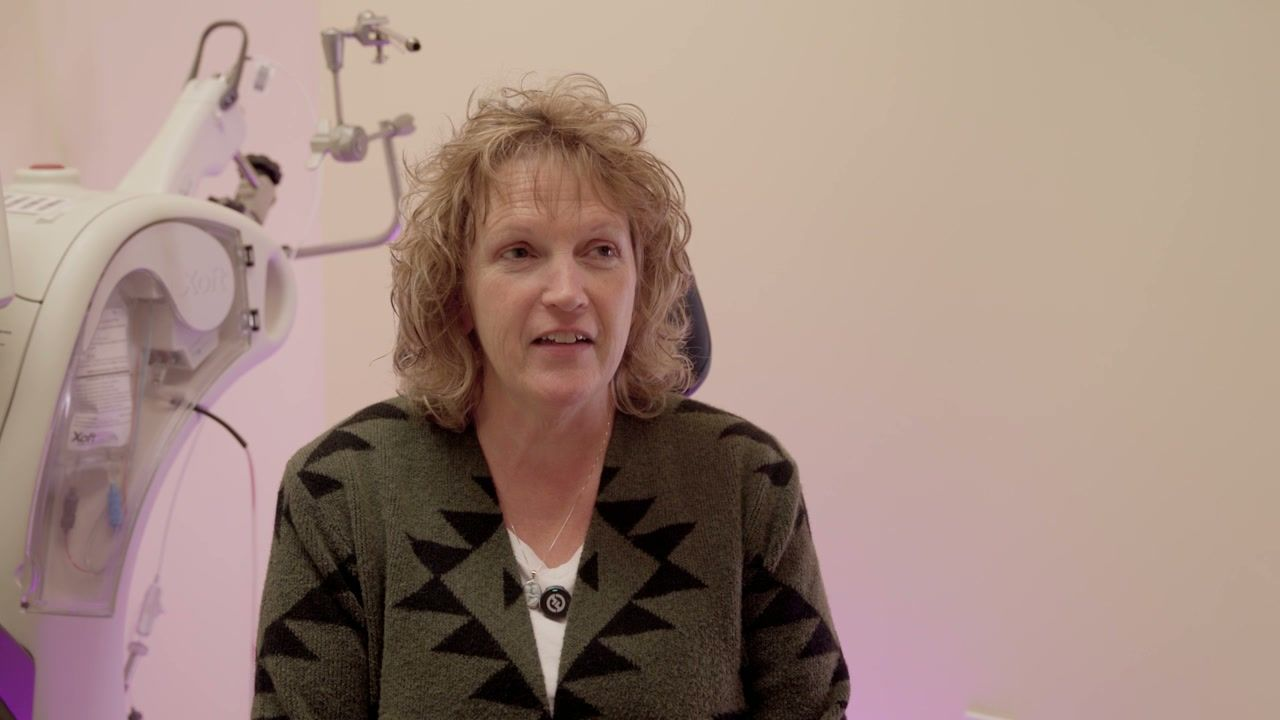
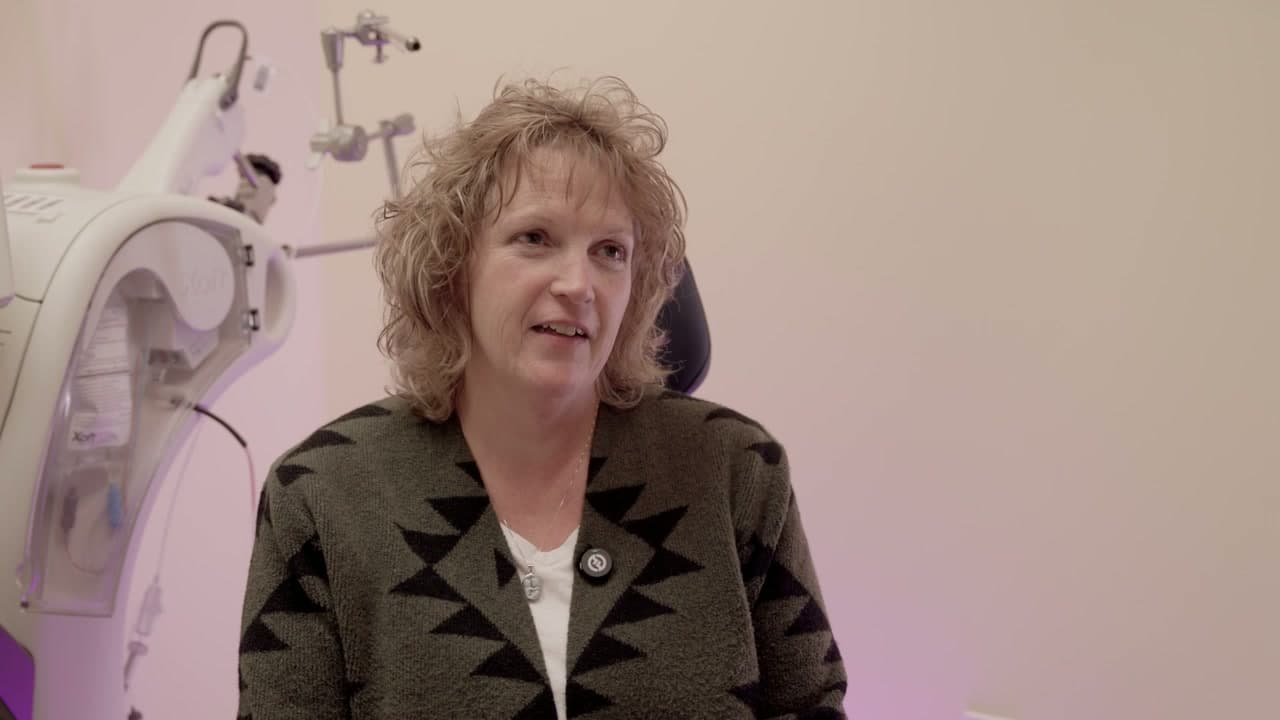
Added feature: video with video preview

Changed region(s): [[0.1875, 0.0917, 0.6875, 1.0]]

diff --git a/src/electronic-brachytherapy.html b/src/electronic-brachytherapy.html
@@ -38,14 +38,22 @@
                             <p>
                                 Electronic Brachytherapy (eBx) is a cutting-edge cancer treatment that merges the advantages of external beam radiation therapy and conventional brachytherapy to effectively target skin cancer while minimizing harm to surrounding healthy tissue. This approach allows patients to achieve comparable treatment results without the extended recovery periods or side effects associated with Mohs surgery.
                             </p>
-                            <figure>
-                                <picture>
-                                    <source srcset="img/face-with-focus-700x618.avif" type="image/avif">
-                                    <source srcset="img/face-with-focus-700x618.webp" type="image/webp">
-                                    <img src="img/face-with-focus-700x618.jpg" alt="Facial zones | Meridian park">
-                                </picture>
-                                <figcaption>eBx can successfully treat any accessible area on the body, even around the nose</figcaption>
-                            </figure>
+
+                            <div class="video80-wrapper">
+                                <video class="video80-item__video" controls playsinline preload="none">
+                                    <source src="img/videos/promo1.mp4" type="video/mp4">
+                                </video>
+                                <video class="video80-item__preview" autoplay loop muted playsinline>
+                                    <source src="img/patient-stories-hero--slow2.mp4" type="video/mp4">
+                                    <p>
+                                        Your browser does not support the video tag
+                                    </p>
+                                </video>
+                                <div class="video80-item__playbutton">
+                                    <svg xmlns="http://www.w3.org/2000/svg" width="24" height="24" viewBox="0 0 24 24"><path d="M3 22v-20l18 10-18 10z"/></svg>
+                                </div>
+                            </div>
+
                             <div class="inner-list__box">
                                 <div class="inner-list-box__item">
                                     <div class="inner-list-box-item__side">
@@ -112,6 +120,15 @@
                                     </div>
                                 </div>
                             </div>
+
+                            <figure>
+                                <picture>
+                                    <source srcset="img/face-with-focus-700x618.avif" type="image/avif">
+                                    <source srcset="img/face-with-focus-700x618.webp" type="image/webp">
+                                    <img src="img/face-with-focus-700x618.jpg" alt="Facial zones | Meridian park">
+                                </picture>
+                                <figcaption>eBx can successfully treat any accessible area on the body, even around the nose</figcaption>
+                            </figure>
 
                         </div>
                     </div>

diff --git a/src/css/modules/video80-with-videopreview.css b/src/css/modules/video80-with-videopreview.css
@@ -1,0 +1,44 @@
+.video80-wrapper {
+    width: 80%;
+    height: auto;
+    margin: calc(4 * var(--size-base)) auto;
+    position: relative;
+}
+
+.video80-item__video {
+    width: 100%;
+    aspect-ratio: 940/544;
+    display: none;
+}
+
+.video80-item__preview {
+    width: 100%;
+    aspect-ratio: 940/544;
+    display: block;
+}
+
+.video80-item__playbutton {
+    position: absolute;
+    top: 50%;
+    left: 50%;
+    translate: -50% -50%;
+
+    width: 48px;
+    height: 48px;
+    border-radius: 50%;
+    background-color: #000a;
+    display: grid;
+    place-content: center;
+}
+
+.video80-item__playbutton svg {
+    width: 24px;
+    height: 24px;
+    border-radius: 50%;
+    fill: white;
+    translate: 10% 0;
+}
+
+.video80-wrapper:hover .video80-item__playbutton {
+    background-color: #0006;
+}

diff --git a/src/js/app.js b/src/js/app.js
@@ -141,3 +141,20 @@ function goToVisit() {
 function goToContact() {
     window.location.href = './contact.html';
 }
+
+
+
+
+
+/* video with video preview */
+const video80Wrapper = document.querySelector(".video80-wrapper");
+const video80Preview = document.querySelector(".video80-item__preview");
+const video80video = document.querySelector(".video80-item__video");
+const video80button = document.querySelector(".video80-item__playbutton");
+
+video80Wrapper.addEventListener('click', () => {
+    video80Preview.style.display = "none";
+    video80button.style.display = "none";
+    video80video.style.display = "block";
+    video80video.play();
+});

diff --git a/src/css/content.css b/src/css/content.css
@@ -199,8 +199,9 @@
 .page--inner .content .container figure {
     max-width: 500px;
     width: 100%;
-    margin: 60px auto 80px auto;
-    margin: calc(3 * var(--size-base, 20px)) auto calc(4 * var(--size-base, 20px)) auto;
+    margin: 0 auto;
+    /* margin: 60px auto 80px auto;
+    margin: calc(3 * var(--size-base, 20px)) auto calc(4 * var(--size-base, 20px)) auto; */
 
     background-color: #deedf0;
     background-color: var(--color-bg-softcyan, #deedf0);

diff --git a/src/css/style.css b/src/css/style.css
@@ -15,3 +15,4 @@
 @import url("modules/versus-box.css");
 @import url("modules/partners-bar.css");
 @import url("modules/visit.css");
+@import url("modules/video80-with-videopreview.css");

diff --git a/src/css/globals.css b/src/css/globals.css
@@ -64,6 +64,10 @@ a {
     text-decoration: none;
 }
 
+button span {
+    white-space: nowrap;
+}
+
 b {
     font-weight: normal;
 }

diff --git a/src/css/hero.css b/src/css/hero.css
@@ -329,6 +329,7 @@
 
 
 
+
 /* hero for inner page */
 .page--inner .hero {
     margin-bottom: 75px;
